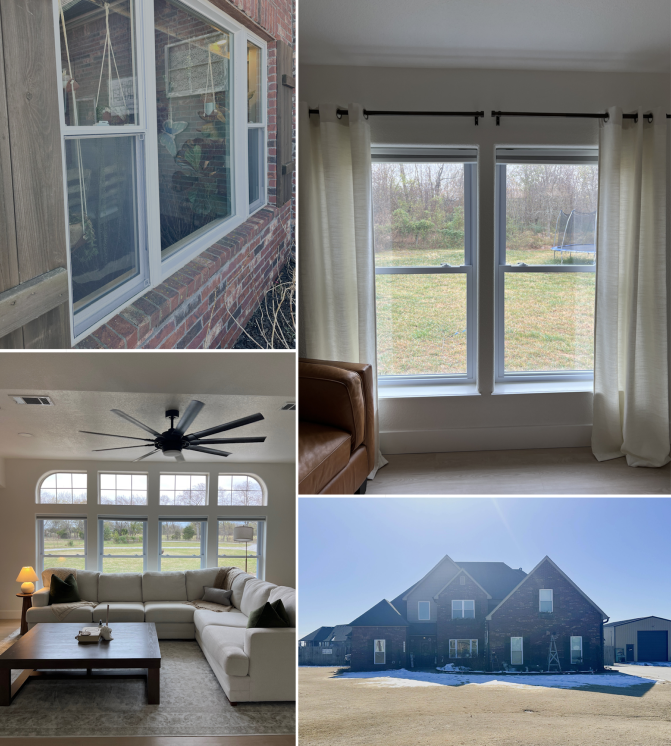
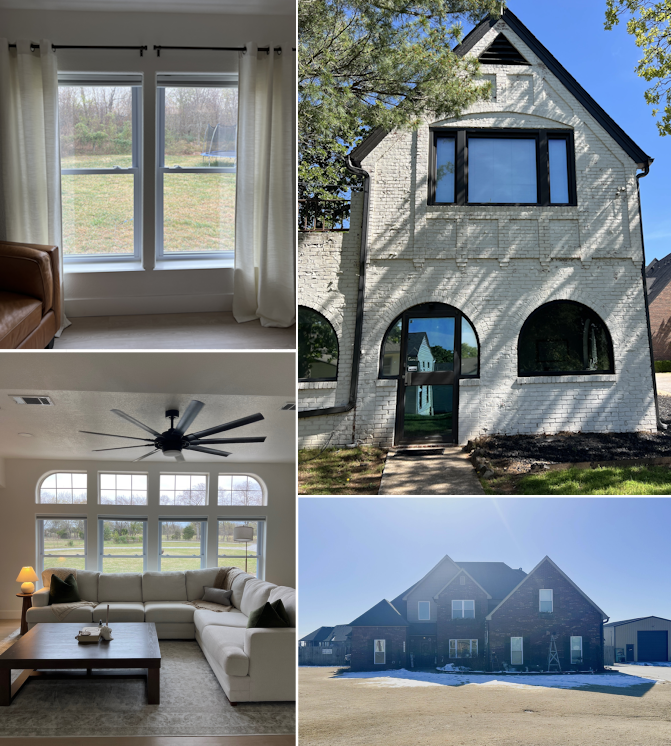
Added New Photos

diff --git a/src/components/GallerySection.jsx b/src/components/GallerySection.jsx
@@ -8,41 +8,38 @@ import ExterriorDiningRoomWindow from '../assets/ExterriorDiningRoomWindow.jpg';
 import ExterriorViewOfClientHouse from '../assets/ExterriorViewOfClientHouse.jpg';
 import InterriorCloseUpViewOfWindow from '../assets/InterriorCloseUpViewOfWindow.jpg';
 
+// New images
+import NewHouseProject1 from '../assets/New House Project-1.webp';
+import NewHouseProject2 from '../assets/New House Project-2.webp';
+import NewHouseProject3 from '../assets/New House Project-3.webp';
+import NewHouseProject4 from '../assets/New House Project-4.webp';
+import NewHouseProject5 from '../assets/New House Project-5.webp';
+import NewHouseProject6 from '../assets/New House Project-6.webp';
+import NewHouseProject7 from '../assets/New House Project-7.webp';
+import NewHouseProject8 from '../assets/New House Project-8.webp';
+
 const GallerySection = () => {
   const [currentPage, setCurrentPage] = useState(1);
   const [selectedImage, setSelectedImage] = useState(null);
   const [imagesPerPage, setImagesPerPage] = useState(6);
 
-  // Updated gallery data with imported image paths
   const galleryData = [
-    {
-      path: InterriorDoubleHungWindow,
-      alt: "Modern Double Hung Window Installation - Interior",
-    },
-    {
-      path: InterriorCustomWindow,
-      alt: "Elegant Window Design for Homes - Interior",
-    },
-    {
-      path: InterriorDiningRoomWindow,
-      alt: "Beautiful Dining Room Window - Interior",
-    },
-    {
-      path: InterriorTeaTableWindows,
-      alt: "Custom Window Design - Interior",
-    },
-    {
-      path: ExterriorDiningRoomWindow,
-      alt: "Custom Window Design - Exterior",
-    },
-    {
-      path: ExterriorViewOfClientHouse,
-      alt: "Custom Window Replacement - Exterior",
-    },
-    {
-      path: InterriorCloseUpViewOfWindow,
-      alt: "Close Up Of New Installation - Interior View",
-    },
+    // New house project images
+    { path: NewHouseProject1, alt: "Black-framed window installation on white brick exterior by Morgan Custom Windows." },
+    { path: NewHouseProject2, alt: "Arched black-framed window installed on white brick building by Morgan Custom Windows." },
+    { path: NewHouseProject3, alt: "Custom arched window installation on white painted brick wall by Morgan Custom Windows." },
+    { path: NewHouseProject4, alt: "Exterior view of home with custom black-framed arched and rectangular windows by Morgan Custom Windows." },
+    { path: NewHouseProject5, alt: "Front view of building with black-framed windows and arched glass door installed by Morgan Custom Windows." },
+    { path: NewHouseProject6, alt: "Custom black-trimmed window installations on white brick home exterior by Morgan Custom Windows." },
+    { path: NewHouseProject7, alt: "Black-framed window with arched brick detail on white painted exterior by Morgan Custom Windows." },
+    { path: NewHouseProject8, alt: "Modern black-trimmed window installations on white brick home by Morgan Custom Windows." },
+    { path: InterriorDoubleHungWindow, alt: "Modern Double Hung Window Installation - Interior" },
+    { path: InterriorCustomWindow, alt: "Elegant Window Design for Homes - Interior" },
+    { path: InterriorDiningRoomWindow, alt: "Beautiful Dining Room Window - Interior" },
+    { path: InterriorTeaTableWindows, alt: "Custom Window Design - Interior" },
+    { path: ExterriorDiningRoomWindow, alt: "Custom Window Design - Exterior" },
+    { path: ExterriorViewOfClientHouse, alt: "Custom Window Replacement - Exterior" },
+    { path: InterriorCloseUpViewOfWindow, alt: "Close Up Of New Installation - Interior View" },
   ];
 
   const updateImagesPerPage = () => {
@@ -99,7 +96,6 @@ const GallerySection = () => {
         ))}
       </div>
 
-      {/* Pagination */}
       <div className="pagination">
         {Array.from({ length: totalPages }, (_, index) => (
           <button
@@ -112,7 +108,6 @@ const GallerySection = () => {
         ))}
       </div>
 
-      {/* Image Modal */}
       {selectedImage && (
         <div className="modal" onClick={closeImage}>
           <div className="modal-content" onClick={(e) => e.stopPropagation()}>

diff --git a/src/components/ReviewsSection.jsx b/src/components/ReviewsSection.jsx
@@ -1,30 +1,29 @@
+import { useEffect } from 'react';
 import '../styles/ReviewsSection.css';
 import ReviewsBackground from '../assets/ReviewsBackground.png';
-import Reviewer from '../assets/TemporaryReviewer.png';
-import FiveStars from '../assets/5Stars.png';
 
 const ReviewsSection = () => {
+  useEffect(() => {
+    const script = document.createElement('script');
+    script.src = 'https://static.elfsight.com/platform/platform.js';
+    script.async = true;
+    document.body.appendChild(script);
+  }, []);
+
   return (
-    <section className="reviews-section" style={{ backgroundImage: `url(${ReviewsBackground})` }}>
+    <section
+      className="reviews-section"
+      style={{ backgroundImage: `url(${ReviewsBackground})` }}
+    >
       <div className="reviews-header">
         <h2>MORGAN CUSTOM WINDOWS REVIEWS</h2>
         <h3>Hear What Tulsa Customers Are Saying About Us</h3>
       </div>
       <div className="reviews-cards">
-        {[1, 2, 3].map((_, index) => (
-          <div className="review-card" key={index}>
-            <img className="reviewer-image" src={Reviewer} alt="Reviewer" />
-            <img className="stars" src={FiveStars} alt="5 Stars" />
-            <h4>Highly Satisfied!</h4>
-            <p>
-              “Morgan Windows has provided the best work when it comes to new windows. They are such high quality!”
-            </p>
-            <a href="#" className="read-more">
-              Read The Full Review
-            </a>
-            <p className="reviewer-info">Eric Dzyk - 1/16/2025</p>
-          </div>
-        ))}
+        <div
+          className="elfsight-app-0f1e1dbc-3e0f-4de5-bfd6-a9da36e3c73e"
+          data-elfsight-app-lazy
+        ></div>
       </div>
     </section>
   );

diff --git a/faq/index.jsx b/faq/index.jsx
@@ -9,7 +9,6 @@ import ReactDOM from "react-dom/client";
 import Navbar from '../src/components/Navbar'
 import Footer from '../src/components/Footer'
 import TopDescription from '../src/components/TopDescription'
-import WhyItMatters from '../src/components/WhyItMatters';
 
 ReactDOM.createRoot(document.getElementById("faq")).render(
   <>
@@ -17,7 +16,6 @@ ReactDOM.createRoot(document.getElementById("faq")).render(
     <Navbar/>
     <FAQLandingSection/>
     <FAQSection/>
-    <WhyItMatters/>
     <ServiceAreas/>
     <ThreeSteps/>
     <ReviewsSection/>
